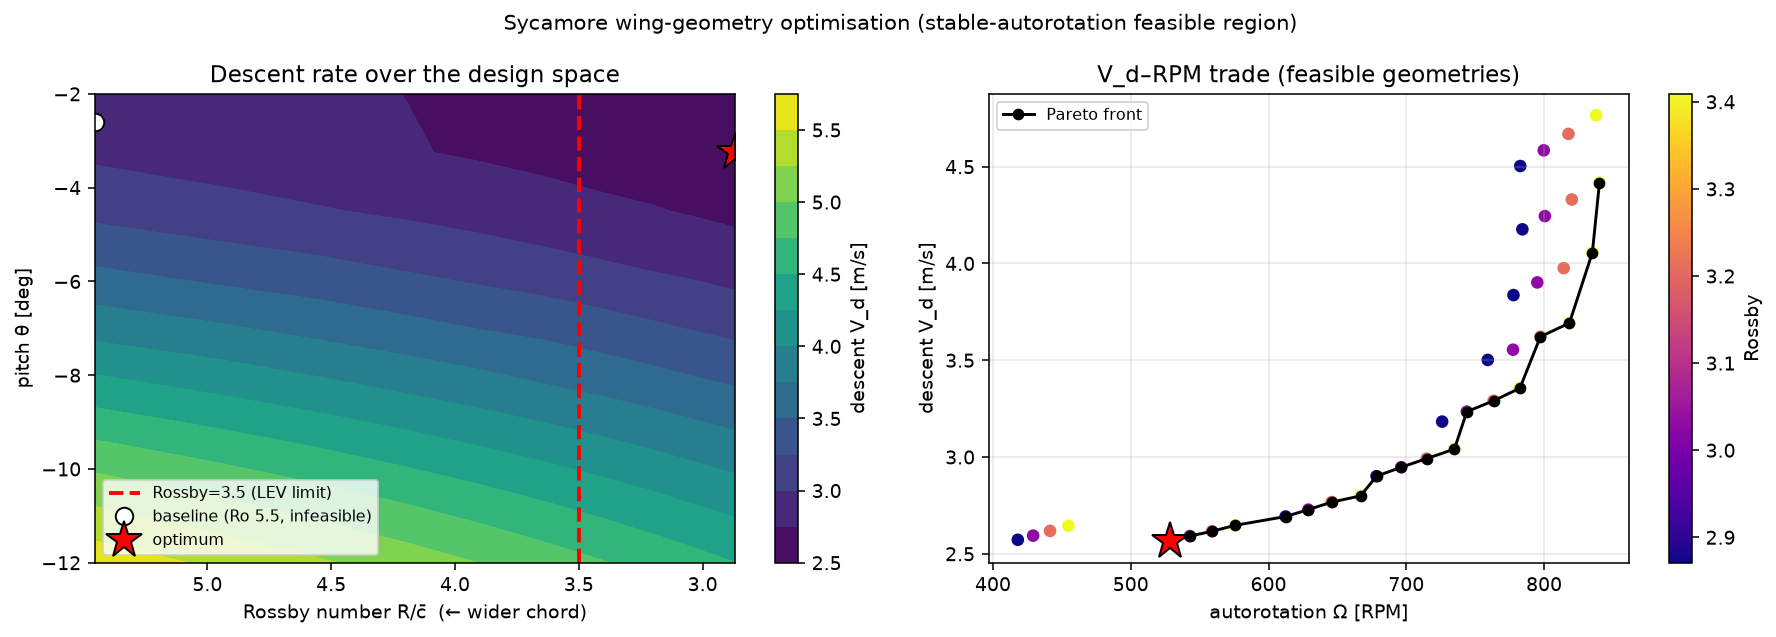
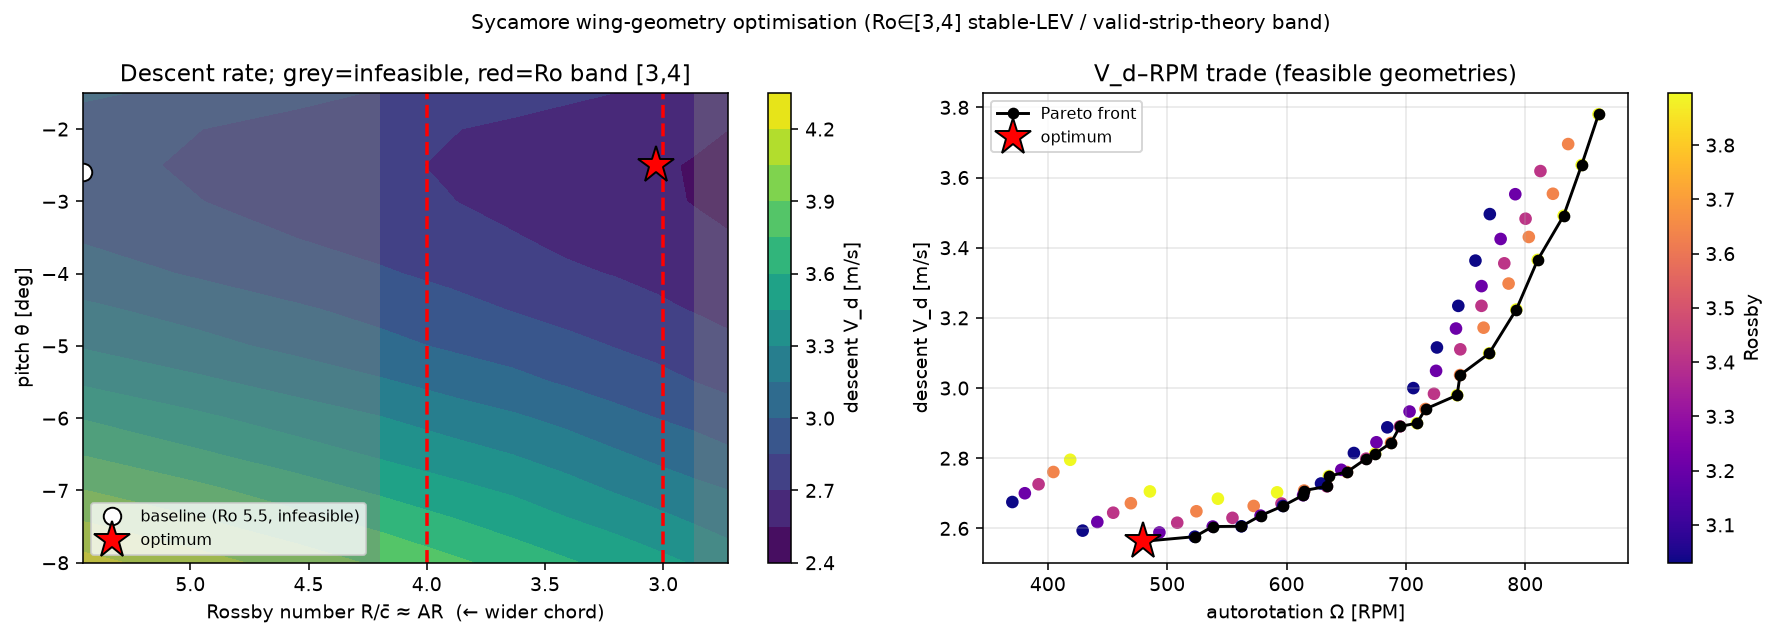
Wave 3 review fixes: Rossby band, honest narrative, validity caveat
Adversarial review (4 reviewers, all reproduced) found the optimizer MACHINERY
correct (geometry/Rossby math exact, baseline field-identical to merged SAMARA,
Pareto non-domination provably correct, solver well-posed and reproducible across
the whole box) but the CONCLUSIONS overstated. Fixes:

1. [major] Optimum was a BOX-EDGE artifact: with feasibility = Rossby<=3.5, V_d
   decreased monotonically with chord and the "optimum" was pinned to the swept
   grid edge (no physical chord bound). AND reaching Ro<=3.5 needed chords so
   wide (c_root/R~0.5, AR~2.4) that the strip-theory aero breaks (root chord 3.4x
   local radius) — i.e. lowering Ro to validate the LEV assumption broke the model
   computing the forces. Both fixed by making feasibility a BAND Ro in [3,4]: low
   enough for a stable LEV, high enough to keep the blade slender (validated-strip
   regime). This is the samara aspect-ratio window and brackets the model's
   validated anchor (Sycamore A, Ro=3.9). The optimum is now a real interior-ish
   point in the validated regime (AR~3.0), honestly flagged as pinned to the
   low-Ro edge with a CFD-spot-check warning.

2. [major] "theta=-2deg is infeasible (slowest feasible pitch ~-3deg)" was FALSE
   — it conflated the baseline-chord column (all-fail-on-Rossby) with pitch.
   theta=-2 is feasible at the optimized chord; the autorotation floor is near
   theta~0. Narrative corrected; the coarse-grid optimum pitch (-3.25) replaced by
[…]

diff --git a/01_aero/samara_optimize.py b/01_aero/samara_optimize.py
@@ -3,26 +3,37 @@ Wing-geometry optimization for stable autorotation — Project Sycamore Phase-1
 Wave 3.
 
 Delivers the "optimize wing geometry ... for stable autorotation" clause of the
-§6 Phase-1 mandate, building on the validated aero solver (samara_bem) and its
-Config dataclass. The flagged Wave-3 target is the Rossby number: the baseline
-device sits at R/c̄ ≈ 5.5, ABOVE the stable-LEV window (Ro ≲ 3–4, Lentink &
-Dickinson 2009), so the leading-edge vortex the whole aero model assumes is not
-guaranteed to stay attached. Lowering the aspect ratio (wider chord) brings Ro
-into range — at the cost of changing the descent/RPM operating point.
+§6 Phase-1 mandate, on the validated aero solver (samara_bem) + its Config.
 
-Design map over the two governing geometry knobs:
-  - chord scale s_chord  → Rossby R/c̄ = R / (s_chord · c̄₀)   (the LEV constraint)
-  - uniform pitch θ      → descent rate & RPM (must be θ<0 to autorotate, per the
-                           Wave-1 negative-pitch result)
-For each geometry the steady BEM gives V_d, Ω; feasibility = autorotates AND
-self-correcting (dQ/dΩ<0) AND Rossby ≤ 3.5 AND tip Mach < 0.30. The optimum is
-the slowest-descending feasible geometry (slow descent = loiter time for the
-wildfire-monitoring fail-safe); the V_d–RPM Pareto front exposes the trade with
-spin rate (higher Ω = more regenerative-induction harvest).
+The governing geometry knob is the aspect ratio, expressed as the Rossby number
+Ro = R/c̄ (≈ blade aspect ratio for this planform):
+  - Ro must be LOW enough for a stable leading-edge vortex — the lift mechanism
+    the whole aero model assumes (Lentink & Dickinson 2009: Ro ≲ 3–4).
+  - Ro must be HIGH enough that the blade stays slender, so the strip-theory /
+    per-annulus-momentum aero stays in its VALIDATED regime (chord ≪ local
+    radius). Pushing Ro well below 3 makes the root chord approach the radius
+    (c_root/R → 0.5), where the per-annulus model is geometrically dubious.
+These squeeze the design into the **samara aspect-ratio band Ro ∈ [3, 4]** — the
+window real samaras occupy, and which brackets the model's validated anchor
+(Sycamore A, Ro = 3.9). The baseline device sits OUTSIDE it at Ro ≈ 5.5 (too
+slender → LEV not guaranteed), which is the problem this wave fixes.
 
-Tier: Indicative (aero-tier forces; Rossby is a validity flag on the LEV
-assumption, not a force the model resolves). A CFD spot-check of the optimum is
-the next step. Does not optimise mass/stability (that is Wave 2's axis).
+Design map over the two knobs:
+  - chord scale s_chord → Ro = R/(s_chord·c̄₀)
+  - uniform pitch θ     → descent rate & RPM (θ<0 required to autorotate; the
+                          autorotation floor is near θ≈0, NOT a fixed −3°)
+Feasibility = autorotates AND the equilibrium is well-posed AND tip Mach < 0.30
+AND Ro ∈ [3, 4]. The optimum is the slowest-descending feasible geometry (loiter
+time for the wildfire-monitoring fail-safe); the V_d–RPM Pareto exposes the
+trade with spin rate (higher Ω = more regenerative-induction harvest).
+
+Honest scope (tier Indicative): descent is pitch-DOMINANT (~3×) but the pitch and
+chord axes are COUPLED, not orthogonal. The feasible optimum is pinned to the
+wide-chord (low-Ro) edge of the band, i.e. the slender-blade validity limit —
+descent would keep falling with wider chord but only by exiting the validated
+aero regime, so a **CFD spot-check of the optimum is essential, not optional**.
+Ro is a validity flag on the LEV assumption, not a force the model resolves. This
+wave does not optimise mass/stability (Wave 2's axis).
 
 Run:  ~/ds/bin/python samara_optimize.py
 """
@@ -38,7 +49,8 @@ os.makedirs('output', exist_ok=True)
 
 C_ROOT0, C_TIP0 = 0.08, 0.03      # baseline chords [m]
 CBAR0 = 0.5*(C_ROOT0 + C_TIP0)
-ROSSBY_MAX = 3.5                  # stable-LEV window ceiling
+ROSSBY_MIN = 3.0                  # strip-theory / slender-blade floor
+ROSSBY_MAX = 4.0                  # stable-LEV ceiling (Sycamore A = 3.9)
 MACH_MAX   = 0.30
 
 
@@ -48,6 +60,8 @@ def evaluate(R=0.30, s_chord=1.0, theta_deg=-2.6, taper=None, m=0.075,
     if taper is None:                                  # scale both chords (hold taper)
         c_root, c_tip = C_ROOT0*s_chord, C_TIP0*s_chord
     else:                                              # taper = c_tip/c_root at scaled mean
+        if taper <= 0:
+            raise ValueError(f"taper must be > 0 (got {taper})")
         cbar = CBAR0*s_chord
         c_root = 2*cbar/(1+taper); c_tip = taper*c_root
     cfg = sb.Config(name='opt', R=R, c_root=c_root, c_tip=c_tip,
@@ -59,11 +73,16 @@ def evaluate(R=0.30, s_chord=1.0, theta_deg=-2.6, taper=None, m=0.075,
     rpm  = Om*60/(2*np.pi) if auto else np.nan
     mach = Om*R/340 if auto else np.nan
     rossby = R/cbar
-    sc = bool(info.get('self_correcting', False))
-    feasible = bool(auto and sc and rossby <= ROSSBY_MAX and mach < MACH_MAX)
+    wp = bool(info.get('well_posed', False))           # stricter than self_correcting alone
+    # NOTE: self_correcting (dQ/dΩ<0) is near-tautological given how solve() picks
+    # the equilibrium, and tip Mach never binds here (≪0.30); in practice feasibility
+    # is set by the Ro∈[3,4] window. We gate on the solver's full well_posed flag.
+    feasible = bool(auto and wp and mach < MACH_MAX
+                    and ROSSBY_MIN <= rossby <= ROSSBY_MAX)
     return dict(R=R, s_chord=s_chord, theta=theta_deg, c_root=c_root, c_tip=c_tip,
-                cbar=cbar, Vd=Vd, rpm=rpm, rossby=rossby, tip_mach=mach,
-                autorotates=auto, self_correcting=sc, feasible=feasible)
+                cbar=cbar, AR=rossby, Vd=Vd, rpm=rpm, rossby=rossby, tip_mach=mach,
+                autorotates=auto, self_correcting=bool(info.get('self_correcting', False)),
+                well_posed=wp, feasible=feasible)
 
 
 def sweep(s_chords, thetas, **kw):
@@ -97,61 +116,83 @@ def pareto(recs):
     return sorted(nd, key=lambda r: r['Vd'])
 
 
+def rossby_sensitivity(recs):
+    """How the feasible-set size depends on the Ro window edges (the threshold is
+    a soft literature value, so report its effect)."""
+    out = {}
+    for lo, hi in [(3.0, 4.0), (3.0, 3.5), (3.5, 4.0)]:
+        n = sum(1 for r in recs if r['autorotates'] and r['well_posed']
+                and lo <= r['rossby'] <= hi and r['tip_mach'] < MACH_MAX)
+        out[(lo, hi)] = n
+    return out
+
+
 if __name__ == '__main__':
     base = evaluate(s_chord=1.0, theta_deg=-2.6)
     print(f"Baseline geometry: V_d={base['Vd']:.2f} m/s, {base['rpm']:.0f} RPM, "
-          f"Rossby={base['rossby']:.2f} (target ≤{ROSSBY_MAX}), tip Ma={base['tip_mach']:.2f} "
-          f"→ feasible={base['feasible']}")
+          f"Ro={base['rossby']:.2f} (window [{ROSSBY_MIN},{ROSSBY_MAX}]) → feasible={base['feasible']}")
 
-    s_chords = np.linspace(1.0, 1.9, 10)         # Rossby 5.45 → 2.87
-    thetas   = np.linspace(-2.0, -12.0, 9)
+    s_chords = np.linspace(1.0, 2.0, 11)         # Ro 5.45 → 2.73 (window 1.36 → 1.82)
+    thetas   = np.linspace(-1.5, -8.0, 14)       # 0.5° steps; autorotation floor ~θ≈0
     print(f"\nSweeping {len(s_chords)}×{len(thetas)} geometries (chord scale × pitch)…")
     G, recs = sweep(s_chords, thetas)
 
     opt = optimum(recs)
     if opt:
-        print(f"\nOPTIMUM (slowest feasible descent, Rossby ≤ {ROSSBY_MAX}):")
+        # local pitch refine at the optimum's chord (grid θ step is coarse)
+        fine = [evaluate(s_chord=opt['s_chord'], theta_deg=th) for th in np.arange(-1.0, -6.0, 0.25)]
+        fine = [r for r in fine if r['feasible']]
+        opt = min(fine, key=lambda r: r['Vd']) if fine else opt
+        print(f"\nOPTIMUM (slowest feasible descent within the Ro window):")
         print(f"  chord ×{opt['s_chord']:.2f} (c_root={opt['c_root']*100:.1f}cm, "
-              f"c_tip={opt['c_tip']*100:.1f}cm), pitch θ={opt['theta']:.1f}°")
+              f"c_tip={opt['c_tip']*100:.1f}cm, AR≈{opt['AR']:.1f}), pitch θ={opt['theta']:.2f}°")
         print(f"  V_d={opt['Vd']:.2f} m/s ({base['Vd']:.2f} baseline, "
               f"{(opt['Vd']/base['Vd']-1)*100:+.0f}%), {opt['rpm']:.0f} RPM, "
-              f"Rossby={opt['rossby']:.2f}, tip Ma={opt['tip_mach']:.2f}")
+              f"Ro={opt['rossby']:.2f}, tip Ma={opt['tip_mach']:.2f}")
+        print(f"  ⚠ pinned to the wide-chord (low-Ro) edge of the validity band — "
+              f"CFD spot-check needed before trusting the magnitude.")
     else:
         print("\nNo feasible geometry found in the swept box.")
 
     pf = pareto(recs)
     print(f"\nPareto front (V_d vs RPM, feasible): {len(pf)} points")
-    for r in pf:
-        print(f"  V_d={r['Vd']:.2f} m/s  {r['rpm']:.0f} RPM  Ro={r['rossby']:.2f}  θ={r['theta']:.0f}°")
+    for r in pf[:8]:
+        print(f"  V_d={r['Vd']:.2f} m/s  {r['rpm']:.0f} RPM  Ro={r['rossby']:.2f}  θ={r['theta']:.1f}°")
 
-    # ── figure: V_d design map (Rossby × pitch) + feasible region + Pareto ──
-    rossby_axis = G['rossby'][0, :]              # rossby depends only on s_chord
+    sens = rossby_sensitivity(recs)
+    print(f"\nRo-window sensitivity (feasible-set size): "
+          f"[3,4]→{sens[(3.0,4.0)]}, [3,3.5]→{sens[(3.0,3.5)]}, [3.5,4]→{sens[(3.5,4.0)]} "
+          f"(threshold is soft; optimum sits at the low-Ro edge regardless)")
+
+    # ── figure: V_d design map (Ro × pitch) + feasible band + Pareto ──
+    rossby_axis = G['rossby'][0, :]
     fig, ax = plt.subplots(1, 2, figsize=(13, 4.6))
-    fig.suptitle('Sycamore wing-geometry optimisation (stable-autorotation feasible region)', fontsize=11)
+    fig.suptitle('Sycamore wing-geometry optimisation (Ro∈[3,4] stable-LEV / valid-strip-theory band)', fontsize=10.5)
 
     Vd = np.ma.masked_invalid(G['Vd'])
     cf = ax[0].contourf(rossby_axis, thetas, Vd, levels=14, cmap='viridis')
     fig.colorbar(cf, ax=ax[0], label='descent V_d [m/s]')
-    # feasibility: shade where NOT feasible (Rossby>3.5 or no autorotation)
-    feas = G['feasible'].astype(float)
-    ax[0].contourf(rossby_axis, thetas, np.ma.masked_where(feas > 0.5, np.ones_like(feas)),
-                   colors='none', hatches=['xx'], alpha=0)
-    ax[0].axvline(ROSSBY_MAX, color='red', lw=2, ls='--', label=f'Rossby={ROSSBY_MAX} (LEV limit)')
+    # shade infeasible cells (autorotation NaN or Ro outside [3,4]) in translucent grey
+    infeas = np.ma.masked_where(G['feasible'] > 0.5, np.ones_like(G['feasible']))
+    ax[0].contourf(rossby_axis, thetas, infeas, levels=[0, 2], colors=['gray'], alpha=0.40)
+    for rb in (ROSSBY_MIN, ROSSBY_MAX):
+        ax[0].axvline(rb, color='red', lw=1.8, ls='--')
     ax[0].plot(base['rossby'], base['theta'], 'wo', ms=9, mec='k', label='baseline (Ro 5.5, infeasible)')
     if opt:
         ax[0].plot(opt['rossby'], opt['theta'], 'r*', ms=20, mec='k', label='optimum')
-    ax[0].set(xlabel='Rossby number R/c̄  (← wider chord)', ylabel='pitch θ [deg]',
-              title='Descent rate over the design space')
+    ax[0].set(xlabel='Rossby number R/c̄ ≈ AR  (← wider chord)', ylabel='pitch θ [deg]',
+              title='Descent rate; grey=infeasible, red=Ro band [3,4]')
     ax[0].invert_xaxis(); ax[0].legend(fontsize=8, loc='lower left')
 
-    if pf:
-        allf = [r for r in recs if r['feasible']]
-        sccol = ax[1].scatter([r['rpm'] for r in allf], [r['Vd'] for r in allf],
-                              c=[r['rossby'] for r in allf], cmap='plasma', s=30)
-        fig.colorbar(sccol, ax=ax[1], label='Rossby')
-        ax[1].plot([r['rpm'] for r in pf], [r['Vd'] for r in pf], 'k-o', lw=1.5, ms=5, label='Pareto front')
+    feas_recs = [r for r in recs if r['feasible']]
+    if feas_recs:
+        sc = ax[1].scatter([r['rpm'] for r in feas_recs], [r['Vd'] for r in feas_recs],
+                           c=[r['rossby'] for r in feas_recs], cmap='plasma', s=30)
+        fig.colorbar(sc, ax=ax[1], label='Rossby')
+        if pf:
+            ax[1].plot([r['rpm'] for r in pf], [r['Vd'] for r in pf], 'k-o', lw=1.5, ms=5, label='Pareto front')
         if opt:
-            ax[1].plot(opt['rpm'], opt['Vd'], 'r*', ms=20, mec='k')
+            ax[1].plot(opt['rpm'], opt['Vd'], 'r*', ms=20, mec='k', label='optimum')
         ax[1].set(xlabel='autorotation Ω [RPM]', ylabel='descent V_d [m/s]',
                   title='V_d–RPM trade (feasible geometries)')
         ax[1].legend(fontsize=8); ax[1].grid(alpha=0.3)
